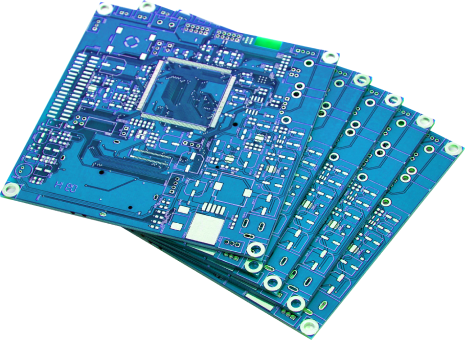
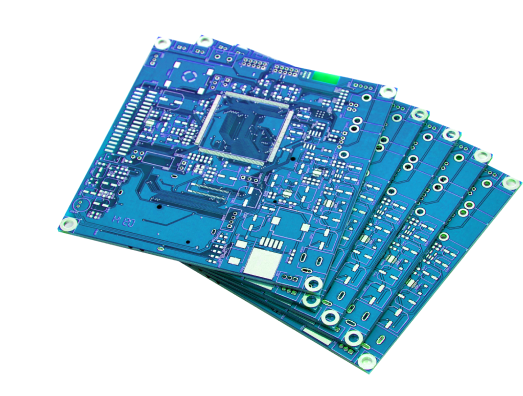
добавляет изображение шапки с треуголниками

diff --git a/build/css/style.min.css b/build/css/style.min.css
@@ -1,2 +1,2 @@
-*,::after,::before{-webkit-box-sizing:border-box;box-sizing:border-box}body{margin:0 auto;padding:0;font-family:"PT Mono",monospace,sans-serif;background-color:#fff}.visually-hidden{position:absolute;width:1px;height:1px;padding:0;clip:rect(1px,1px,1px,1px);border:0;overflow:hidden}.link-mixin,a{text-decoration:none}@font-face{font-family:"PT Mono";font-weight:400;font-display:swap;src:url(../fonts/PTMono-Regular.woff) format("woff"),url(../fonts/PTMono-Regular.woff2) format("woff2")}@font-face{font-family:"Roboto Condensed";font-weight:700;font-display:swap;src:url(../fonts/RobotoCondensed-Bold.woff) format("woff"),url(../fonts/RobotoCondensed-Bold.woff2) format("woff2")}@font-face{font-family:"Roboto Condensed";font-weight:400;font-display:swap;src:url(../fonts/RobotoCondensed-Regular.woff) format("woff"),url(../fonts/RobotoCondensed-Regular.woff2) format("woff2")}.link-mixin{color:#fff}.desktop-wrapper-mixin{padding:0 calc(50% - 705px)}.page-header,.page-header-contacts-wrapper{display:-webkit-box;display:-ms-flexbox;display:flex}.page-header{position:relative;min-height:878px;-webkit-box-orient:vertical;-webkit-box-direction:normal;-ms-flex-direction:column;flex-direction:column;padding:35px 10px;overflow:hidden;background-color:#1b2d37;background-image:url(../img/header-bg-desktop@1x.jpg);background-position:center 0}@media (-webkit-min-device-pixel-ratio:1.5),(min-resolution:144dpi),(min-resolution:1.5dppx){.page-header{background-image:url(../img/header-bg-desktop@2x.jpg);background-size:1920px auto;background-position:center 0}}.page-header__logo{position:relative;margin-right:auto;padding-top:4px;padding-left:65px}.page-header__logo-icon{position:absolute;left:0;top:-2px}.page-header__contacts-icon-wrapper{font-size:0}.page-header__logo-title{margin:0;font-family:"Roboto Condensed";font-weight:700;font-size:25px;line-height:29px;white-space:nowrap;color:#fff}.page-header__logo-caption{font-family:"Roboto";font-style:normal;font-weight:500;font-size:12px;line-height:14px;color:#788891}.page-header__contacts,.page-header__contacts-link{display:-webkit-box;display:-ms-flexbox;display:flex}.page-header__contacts{-webkit-box-align:center;-ms-flex-align:center;align-items:center}.page-header__contacts-link{margin-left:88px}.page-header__contacts-info{margin-left:16px;font-family:"PT Mono";font-style:normal;font-weight:400;font-size:16px;line-height:18px}.page-header__contacts-call{display:block;margin-left:49px;padding:14px 27px;font-family:"Roboto Condensed";font-style:normal;font-weight:700;font-size:14px;line-height:16px;letter-spacing:.05em;border:1px solid #fff;border-radius:6px}.page-header__contacts-call:hover,.promo__button:hover{-webkit-box-shadow:0 0 3px 3px #fafafa;box-shadow:0 0 3px 3px #fafafa}.page-header__image{position:absolute;top:258px;left:56%}@media (max-width:1023px){.page-header{min-height:684px;padding:19px 23px;background-image:url(../img/header-bg-tablet@1x.jpg);background-position:center 0}}@media (max-width:1023px) and (-webkit-min-device-pixel-ratio:1.5),(max-width:1023px) and (min-resolution:144dpi),(max-width:1023px) and (min-resolution:1.5dppx){.page-header{background-image:url(../img/header-bg-tablet@2x.jpg);background-size:1515px auto;background-position:center 0}}@media (max-width:1023px){.page-header__contacts-call,.page-header__contacts-info{display:none}.page-header__contacts-icon{width:25px;height:auto}.page-header__contacts-link{margin-left:32px}.page-header__logo{padding-top:6px;padding-left:70px}.page-header__image{top:114px;left:66%}}@media (max-width:767px){.page-header{min-height:647px;margin-left:auto;margin-right:auto;padding:20px 15px;background-image:url(../img/header-bg-mobile@1x.jpg);background-position:55% -15px}}@media (max-width:767px) and (-webkit-min-device-pixel-ratio:1.5),(max-width:767px) and (min-resolution:144dpi),(max-width:767px) and (min-resolution:1.5dppx){.page-header{background-image:url(../img/header-bg-mobile@2x.jpg);background-size:1447px auto}}@media (max-width:767px){.page-header__logo-caption,.page-header__logo-title{display:none}.page-header__logo-icon{width:38px;height:38px}.page-header__contacts-link{margin-left:23px}.page-header__image{top:93px;left:calc(50% - 134px)}}.promo{z-index:1;margin-top:231px}.promo__description,.promo__title{max-width:720px;font-style:normal;color:#fff}.promo__title{margin:0 0 26px;letter-spacing:.07em;font-family:"Roboto Condensed";font-weight:700;font-size:80px;line-height:94px}.promo__description{position:relative;margin-top:0;margin-right:auto;margin-bottom:43px;padding-left:92px;font-family:"PT Mono";font-weight:400;font-size:22px;line-height:34px}.promo__description::before{content:"";position:absolute;top:17px;left:0;width:66px;height:2px;background-color:#fff}.promo__button{margin-left:92px;padding:18px 45px;font-family:"Roboto Condensed";font-style:normal;font-weight:700;font-size:16px;line-height:19px;text-align:center;letter-spacing:.05em;color:#fff;background-color:#00b2ff;border:0;border-radius:3px;cursor:pointer}.promo__button-full-caption{display:block}.promo__button-short-caption{display:none}@media (max-width:1023px){.promo{margin-top:118px}.promo__title{max-width:545px;padding-left:65px;font-size:60px;line-height:70px}.promo__description{max-width:545px;margin-left:65px;margin-bottom:56px;padding-left:50px;font-size:18px;line-height:156.8%}.promo__description::before{width:32px}.promo__button{margin-left:116px;padding:18px 31px}}@media (max-width:767px){.promo{margin-top:241px;margin-left:auto;margin-right:auto}.promo__title{padding-left:0;font-size:40px;line-height:47px}.promo__description{max-width:350px;margin-left:0;margin-bottom:44px;font-size:16px}.promo__button{display:block;margin:0 auto}.promo__button-full-caption{display:none}.promo__button-short-caption{display:block}}.page-footer,.page-footer--title{font-style:normal;font-weight:400;font-size:15px}.page-footer{display:-webkit-box;display:-ms-flexbox;display:flex;-ms-flex-wrap:wrap;flex-wrap:wrap;padding-top:65px;background-color:#fafafa;font-family:"PT Mono";line-height:25px}.page-footer--title{margin-bottom:26px;font-family:"Roboto Condensed";line-height:16px;letter-spacing:.05em}.page-footer__list-item{list-style:none}.page-footer__list{margin-top:0;margin-bottom:0;padding:0}.page-footer__social{padding-top:5px;margin-right:auto}.page-footer__social-link{display:inline-block;font-size:0}.page-footer__social-date{display:none}.page-footer__logo{position:relative;padding-left:68px}.page-footer__logo-icon{position:absolute;left:0;top:-7px}.page-footer__logo-title{margin:0;font-family:"Roboto Condensed";font-style:normal;font-weight:700;font-size:25px;line-height:29px}.page-footer__logo-caption{display:block;margin-bottom:58px;font-family:"Roboto";font-style:normal;font-weight:500;font-size:12px;line-height:14px;color:#788891}.page-footer__social-icons{display:-webkit-box;display:-ms-flexbox;display:flex;-webkit-box-pack:justify;-ms-flex-pack:justify;justify-content:space-between;max-width:110px}.page-footer__sections{margin-right:100px}.page-footer__service{padding-top:40px}.page-footer__adres{margin-left:auto}.page-footer__copyright{display:-webkit-box;display:-ms-flexbox;display:flex;-webkit-box-pack:justify;-ms-flex-pack:justify;justify-content:space-between;-webkit-box-flex:1;-ms-flex-positive:1;flex-grow:1}
+*,::after,::before{-webkit-box-sizing:border-box;box-sizing:border-box}body{margin:0 auto;padding:0;font-family:"PT Mono",monospace,sans-serif;background-color:#fff}.visually-hidden{position:absolute;width:1px;height:1px;padding:0;clip:rect(1px,1px,1px,1px);border:0;overflow:hidden}.link-mixin,a{text-decoration:none}@font-face{font-family:"PT Mono";font-weight:400;font-display:swap;src:url(../fonts/PTMono-Regular.woff) format("woff"),url(../fonts/PTMono-Regular.woff2) format("woff2")}@font-face{font-family:"Roboto Condensed";font-weight:700;font-display:swap;src:url(../fonts/RobotoCondensed-Bold.woff) format("woff"),url(../fonts/RobotoCondensed-Bold.woff2) format("woff2")}@font-face{font-family:"Roboto Condensed";font-weight:400;font-display:swap;src:url(../fonts/RobotoCondensed-Regular.woff) format("woff"),url(../fonts/RobotoCondensed-Regular.woff2) format("woff2")}.link-mixin{color:#fff}.desktop-wrapper-mixin{padding:0 calc(50% - 705px)}.page-header,.page-header-contacts-wrapper{display:-webkit-box;display:-ms-flexbox;display:flex}.page-header{position:relative;min-height:878px;-webkit-box-orient:vertical;-webkit-box-direction:normal;-ms-flex-direction:column;flex-direction:column;padding:35px 10px;overflow:hidden;background-color:#1b2d37;background-image:url(../img/header-bg-desktop@1x.jpg);background-position:center 0}@media (-webkit-min-device-pixel-ratio:1.5),(min-resolution:144dpi),(min-resolution:1.5dppx){.page-header{background-image:url(../img/header-bg-desktop@2x.jpg);background-size:1920px auto;background-position:center 0}}.page-header__logo{position:relative;margin-right:auto;padding-top:4px;padding-left:65px}.page-header__logo-icon{position:absolute;left:0;top:-2px}.page-header__contacts-icon-wrapper{font-size:0}.page-header__logo-title{margin:0;font-family:"Roboto Condensed";font-weight:700;font-size:25px;line-height:29px;white-space:nowrap;color:#fff}.page-header__logo-caption{font-family:"Roboto";font-style:normal;font-weight:500;font-size:12px;line-height:14px;color:#788891}.page-header__contacts,.page-header__contacts-link{display:-webkit-box;display:-ms-flexbox;display:flex}.page-header__contacts{-webkit-box-align:center;-ms-flex-align:center;align-items:center}.page-header__contacts-link{margin-left:88px}.page-header__contacts-info{margin-left:16px;font-family:"PT Mono";font-style:normal;font-weight:400;font-size:16px;line-height:18px}.page-header__contacts-call{display:block;margin-left:49px;padding:14px 27px;font-family:"Roboto Condensed";font-style:normal;font-weight:700;font-size:14px;line-height:16px;letter-spacing:.05em;border:1px solid #fff;border-radius:6px}.page-header__contacts-call:hover,.promo__button:hover{-webkit-box-shadow:0 0 3px 3px #fafafa;box-shadow:0 0 3px 3px #fafafa}.page-header__image{position:absolute;top:258px;left:56%}@media (max-width:1023px){.page-header{min-height:684px;padding:19px 23px;background-image:url(../img/header-bg-tablet@1x.jpg);background-position:center 0}}@media (max-width:1023px) and (-webkit-min-device-pixel-ratio:1.5),(max-width:1023px) and (min-resolution:144dpi),(max-width:1023px) and (min-resolution:1.5dppx){.page-header{background-image:url(../img/header-bg-tablet@2x.jpg);background-size:1515px auto;background-position:center 0}}@media (max-width:1023px){.page-header__contacts-call,.page-header__contacts-info{display:none}.page-header__contacts-icon{width:25px;height:auto}.page-header__contacts-link{margin-left:32px}.page-header__logo{padding-top:6px;padding-left:70px}.page-header__image{top:80px;left:59%}}@media (max-width:767px){.page-header{min-height:647px;margin-left:auto;margin-right:auto;padding:20px 15px;background-image:url(../img/header-bg-mobile@1x.jpg);background-position:55% -15px}}@media (max-width:767px) and (-webkit-min-device-pixel-ratio:1.5),(max-width:767px) and (min-resolution:144dpi),(max-width:767px) and (min-resolution:1.5dppx){.page-header{background-image:url(../img/header-bg-mobile@2x.jpg);background-size:1447px auto}}@media (max-width:767px){.page-header__logo-caption,.page-header__logo-title{display:none}.page-header__logo-icon{width:38px;height:38px}.page-header__contacts-link{margin-left:23px}.page-header__image{top:68px;left:calc(50% - 135px)}}.promo{z-index:1;margin-top:231px}.promo__description,.promo__title{max-width:720px;font-style:normal;color:#fff}.promo__title{margin:0 0 26px;letter-spacing:.07em;font-family:"Roboto Condensed";font-weight:700;font-size:80px;line-height:94px}.promo__description{position:relative;margin-top:0;margin-right:auto;margin-bottom:43px;padding-left:92px;font-family:"PT Mono";font-weight:400;font-size:22px;line-height:34px}.promo__description::before{content:"";position:absolute;top:17px;left:0;width:66px;height:2px;background-color:#fff}.promo__button{margin-left:92px;padding:18px 45px;font-family:"Roboto Condensed";font-style:normal;font-weight:700;font-size:16px;line-height:19px;text-align:center;letter-spacing:.05em;color:#fff;background-color:#00b2ff;border:0;border-radius:3px;cursor:pointer}.promo__button-full-caption{display:block}.promo__button-short-caption{display:none}@media (max-width:1023px){.promo{margin-top:118px}.promo__title{max-width:545px;padding-left:65px;font-size:60px;line-height:70px}.promo__description{max-width:545px;margin-left:65px;margin-bottom:56px;padding-left:50px;font-size:18px;line-height:156.8%}.promo__description::before{width:32px}.promo__button{margin-left:116px;padding:18px 31px}}@media (max-width:767px){.promo{margin-top:241px;margin-left:auto;margin-right:auto}.promo__title{padding-left:0;font-size:40px;line-height:47px}.promo__description{max-width:350px;margin-left:0;margin-bottom:44px;font-size:16px}.promo__button{display:block;margin:0 auto}.promo__button-full-caption{display:none}.promo__button-short-caption{display:block}}.page-footer,.page-footer--title{font-style:normal;font-weight:400;font-size:15px}.page-footer{display:-webkit-box;display:-ms-flexbox;display:flex;-ms-flex-wrap:wrap;flex-wrap:wrap;-webkit-box-pack:justify;-ms-flex-pack:justify;justify-content:space-between;padding-top:65px;background-color:#fafafa;font-family:"PT Mono";line-height:25px}.page-footer--title{margin-bottom:26px;font-family:"Roboto Condensed";line-height:16px;letter-spacing:.05em}.page-footer__list{-ms-flex-preferred-size:333px;flex-basis:333px;margin-top:0;margin-bottom:0;padding:0}.page-footer__list-item{list-style:none}.page-footer__social{padding-top:5px}.page-footer__social-link{display:inline-block;font-size:0}.page-footer__social-date{display:none}.page-footer__logo{position:relative;padding-left:68px}.page-footer__logo-icon{position:absolute;left:0;top:-7px}.page-footer__logo-title{margin:0;font-family:"Roboto Condensed";font-style:normal;font-weight:700;font-size:25px;line-height:29px}.page-footer__logo-caption{display:block;margin-bottom:58px;font-family:"Roboto";font-style:normal;font-weight:500;font-size:12px;line-height:14px;color:#788891}.page-footer__social-icons{display:-webkit-box;display:-ms-flexbox;display:flex;-webkit-box-pack:justify;-ms-flex-pack:justify;justify-content:space-between;max-width:110px}.page-footer__sections{padding-left:62px}.page-footer__service{padding-top:40px;padding-left:12px}.page-footer__copyright{display:-webkit-box;display:-ms-flexbox;display:flex;-webkit-box-pack:justify;-ms-flex-pack:justify;justify-content:space-between;-webkit-box-flex:1;-ms-flex-positive:1;flex-grow:1;margin-top:53px;padding:14px 0;font-weight:400;font-size:13px;line-height:24px;letter-spacing:.04em;border-top:1px solid #666}.page-footer__copyright-item{-ms-flex-preferred-size:375px;flex-basis:375px}.page-footer__copyright--rights{-ms-flex-preferred-size:221px;flex-basis:221px}.page-footer__copyright--dev{-webkit-box-flex:1;-ms-flex-positive:1;flex-grow:1;text-align:right}
 /*# sourceMappingURL=style.min.css.map */

diff --git a/build/index.html b/build/index.html
@@ -110,13 +110,14 @@
       <source type="image/webp" media="(min-width: 1024px)" srcset="./img/microplate-desktop@1x.webp, ./img/microplate-desktop@2x.webp 2x">
       <source type="image/webp" media="(min-width: 768px)" srcset="./img/microplate-tablet@1x.webp, ./img/microplate-tablet@2x.webp 2x">
       <source type="image/webp" srcset="./img/microplate-mobile@1x.webp, ./img/microplate-mobile@2x.webp 2x">
-      <source media="(min-width: 1024px)" srcset="./img/microplate-desktop@1x.jpg, ./img/microplate-desktop@2x.jpg 2x">
-      <source media="(min-width: 768px)" srcset="./img/microplate-tablet@1x.jpg, ./img/microplate-tablet@2x.jpg 2x">
-      <source srcset="./img/microplate-mobile@1x.jpg, ./img/microplate-mobile@2x.jpg 2x">
-      <img class="page-header__image" src="./img/microplate-desktop@1x.jpg" alt="microplate">
+      <source media="(min-width: 1024px)" srcset="./img/microplate-desktop@1x.png, ./img/microplate-desktop@2x.png 2x">
+      <source media="(min-width: 768px)" srcset="./img/microplate-tablet@1x.png, ./img/microplate-tablet@2x.png 2x">
+      <source srcset="./img/microplate-mobile@1x.png, ./img/microplate-mobile@2x.png 2x">
+      <!-- 1х: 705px; 2x: 1410px -->
+      <img class="page-header__image" src="./img/microplate-desktop@1x.png" alt="microplate">
     </picture>
   </header>
-<!--
+
   <footer class="page-footer desktop-wrapper-mixin">
 
     <ul class="page-footer__social page-footer__list">
@@ -128,7 +129,7 @@
           <span class="page-footer__logo-caption">умные технологии</span>
       </li>
       <li class="page-footer__social-item page-footer__list-item">
-        <span class="page-footer__social-date" >1999-2018 SD SERVICE DEVICES</span>
+        <span class="page-footer__social-date">1999-2018 SD SERVICE DEVICES</span>
       </li>
       <li class="page-footer__social-icons page-footer__social-item page-footer__list-item">
         <a class="page-footer__social-link" href="#">
@@ -195,13 +196,13 @@
     </ul>
 
     <ul class="page-footer__copyright page-footer__list">
-      <li class="page-footer__list-item">ВСЕ ПРАВА ЗАЩИЩЕНЫ</li>
-      <li class="page-footer__list-item">1999-2018 SD SERVICE DEVICES</li>
-      <li class="page-footer__list-item">УСЛОВИЯ КОНФИДЕЦИАЛЬНОСТИ</li>
-      <li class="page-footer__list-item">DEVELOPED BY WOW STUDIO</li>
+      <li class="page-footer__copyright-item page-footer__list-item page-footer__copyright--rights">ВСЕ ПРАВА ЗАЩИЩЕНЫ</li>
+      <li class="page-footer__copyright-item page-footer__list-item">1999-2018 SD SERVICE DEVICES</li>
+      <li class="page-footer__copyright-item page-footer__list-item">УСЛОВИЯ КОНФИДЕЦНИАЛЬНОСТИ</li>
+      <li class="page-footer__copyright-item page-footer__list-item page-footer__copyright--dev">DEVELOPED BY WOW STUDIO</li>
     </ul>
 
-  </footer> -->
+  </footer>
 
   <script src="./js/main.js"></script>
 </body>

diff --git a/source/index.html b/source/index.html
@@ -63,13 +63,14 @@
       <source type="image/webp" media="(min-width: 1024px)" srcset="./img/microplate-desktop@1x.webp, ./img/microplate-desktop@2x.webp 2x">
       <source type="image/webp" media="(min-width: 768px)" srcset="./img/microplate-tablet@1x.webp, ./img/microplate-tablet@2x.webp 2x">
       <source type="image/webp" srcset="./img/microplate-mobile@1x.webp, ./img/microplate-mobile@2x.webp 2x">
-      <source media="(min-width: 1024px)" srcset="./img/microplate-desktop@1x.jpg, ./img/microplate-desktop@2x.jpg 2x">
-      <source media="(min-width: 768px)" srcset="./img/microplate-tablet@1x.jpg, ./img/microplate-tablet@2x.jpg 2x">
-      <source srcset="./img/microplate-mobile@1x.jpg, ./img/microplate-mobile@2x.jpg 2x">
-      <img class="page-header__image" src="./img/microplate-desktop@1x.jpg" alt="microplate">
+      <source media="(min-width: 1024px)" srcset="./img/microplate-desktop@1x.png, ./img/microplate-desktop@2x.png 2x">
+      <source media="(min-width: 768px)" srcset="./img/microplate-tablet@1x.png, ./img/microplate-tablet@2x.png 2x">
+      <source srcset="./img/microplate-mobile@1x.png, ./img/microplate-mobile@2x.png 2x">
+      <!-- 1х: 705px; 2x: 1410px -->
+      <img class="page-header__image" src="./img/microplate-desktop@1x.png" alt="microplate">
     </picture>
   </header>
-<!--
+
   <footer class="page-footer desktop-wrapper-mixin">
 
     <ul class="page-footer__social page-footer__list">
@@ -148,13 +149,13 @@
     </ul>
 
     <ul class="page-footer__copyright page-footer__list">
-      <li class="page-footer__list-item">ВСЕ ПРАВА ЗАЩИЩЕНЫ</li>
-      <li class="page-footer__list-item">1999-2018 SD SERVICE DEVICES</li>
-      <li class="page-footer__list-item">УСЛОВИЯ КОНФИДЕЦИАЛЬНОСТИ</li>
-      <li class="page-footer__list-item">DEVELOPED BY WOW STUDIO</li>
+      <li class="page-footer__copyright-item page-footer__list-item page-footer__copyright--rights">ВСЕ ПРАВА ЗАЩИЩЕНЫ</li>
+      <li class="page-footer__copyright-item page-footer__list-item">1999-2018 SD SERVICE DEVICES</li>
+      <li class="page-footer__copyright-item page-footer__list-item">УСЛОВИЯ КОНФИДЕЦНИАЛЬНОСТИ</li>
+      <li class="page-footer__copyright-item page-footer__list-item page-footer__copyright--dev">DEVELOPED BY WOW STUDIO</li>
     </ul>
 
-  </footer> -->
+  </footer>
 
   <script src="./js/main.js"></script>
 </body>

diff --git a/source/sass/page-footer.scss b/source/sass/page-footer.scss
@@ -1,6 +1,7 @@
 .page-footer {
   display: flex;
   flex-wrap: wrap;
+  justify-content: space-between;
 
   padding-top: 65px;
 
@@ -23,19 +24,20 @@
   letter-spacing: 0.05em;
 }
 
-.page-footer__list-item {
-  list-style: none;
-}
-
 .page-footer__list {
+  flex-basis: 333px;
+
   margin-top: 0;
   margin-bottom: 0;
   padding: 0;
 }
 
+.page-footer__list-item {
+  list-style: none;
+}
+
 .page-footer__social {
   padding-top: 5px;
-  margin-right: auto;
 }
 
 .page-footer__social-link {
@@ -88,20 +90,38 @@
 }
 
 .page-footer__sections {
-  margin-right: 100px;
+  padding-left: 62px;
 }
 
 .page-footer__service {
   padding-top: 40px;
-
-}
-
-.page-footer__adres {
-  margin-left: auto;
+  padding-left: 12px;
 }
 
 .page-footer__copyright {
   display: flex;
   justify-content: space-between;
   flex-grow: 1;
+
+  margin-top: 53px;
+  padding: 14px 0;
+
+  font-weight: normal;
+  font-size: 13px;
+  line-height: 24px;
+  letter-spacing: 0.04em;
+  border-top: 1px solid $font-grey;
+}
+
+.page-footer__copyright-item {
+  flex-basis: 375px;
+}
+
+.page-footer__copyright--rights {
+  flex-basis: 221px;
+}
+
+.page-footer__copyright--dev {
+  flex-grow: 1;
+  text-align: right;
 }

diff --git a/source/sass/page-header.scss b/source/sass/page-header.scss
@@ -145,8 +145,8 @@
   }
 
   .page-header__image {
-    top: 114px;
-    left: 66%;
+    top: 80px;
+    left: 59%;
   }
 }
 
@@ -182,7 +182,7 @@
   }
 
   .page-header__image {
-    top: 93px;
-    left: calc(50% - 134px);
+    top: 68px;
+    left: calc(50% - 135px);
   }
 }
